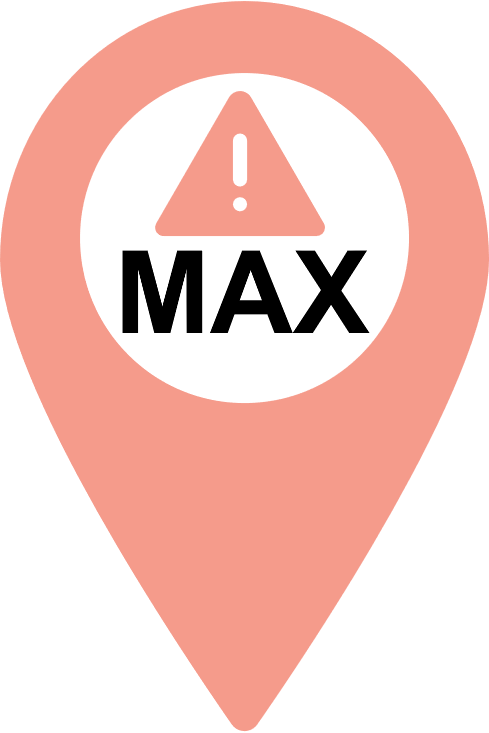
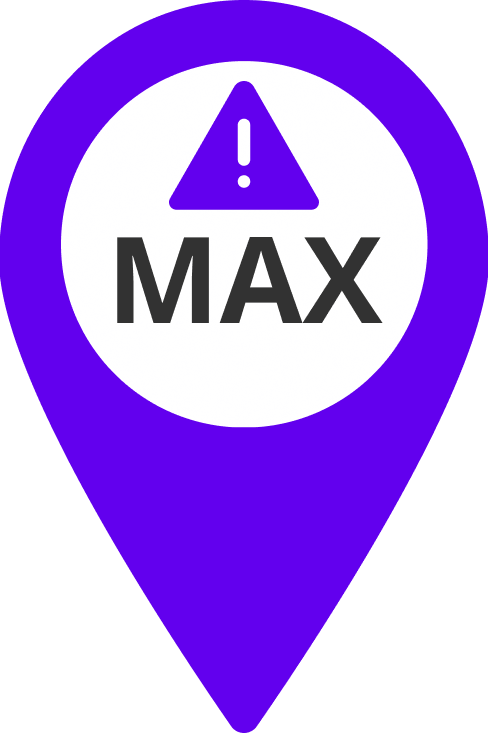
feat: upate colors glofas stations AB#

diff --git a/interfaces/IBF-dashboard/src/app/services/map.service.ts b/interfaces/IBF-dashboard/src/app/services/map.service.ts
@@ -36,8 +36,8 @@ import { AdminLevel } from '../types/admin-level';
 export class MapService {
   private layerSubject = new BehaviorSubject<IbfLayer>(null);
   private layers = [] as IbfLayer[];
-  public alertColor = '#de9584';
-  public safeColor = '#2c45fd';
+  public alertColor = 'var(--ion-color-ibf-trigger-alert-secondary)';
+  public safeColor = 'var(--ion-color-ibf-no-alert-secondary)';
   public hoverFillOpacity = 0.6;
   private unselectedFillOpacity = 0.4;
   private disputedBorderStyle = {

diff --git a/interfaces/IBF-dashboard/src/theme/variables.scss b/interfaces/IBF-dashboard/src/theme/variables.scss
@@ -342,14 +342,6 @@
   --ion-color-ibf-orange-shade: #fcb50c;
   --ion-color-ibf-orange-tint: #fcb50c;
 
-  /** ibf-purple **/
-  --ion-color-ibf-purple: #5f01ef;
-  --ion-color-ibf-purple-rgb: 95, 1, 239;
-  --ion-color-ibf-purple-contrast: #ffffff;
-  --ion-color-ibf-purple-contrast-rgb: 255, 255, 255;
-  --ion-color-ibf-purple-shade: #5f01ef;
-  --ion-color-ibf-purple-tint: #5f01ef;
-
   ion-button {
     text-transform: none;
   }

diff --git a/interfaces/IBF-dashboard/src/global.scss b/interfaces/IBF-dashboard/src/global.scss
@@ -166,7 +166,7 @@
 }
 .trigger-popup-max {
   .leaflet-popup-tip {
-    background-color: var(--ion-color-ibf-purple);
+    background-color: var(--ibf-trigger-alert-primary);
   }
 }
 
